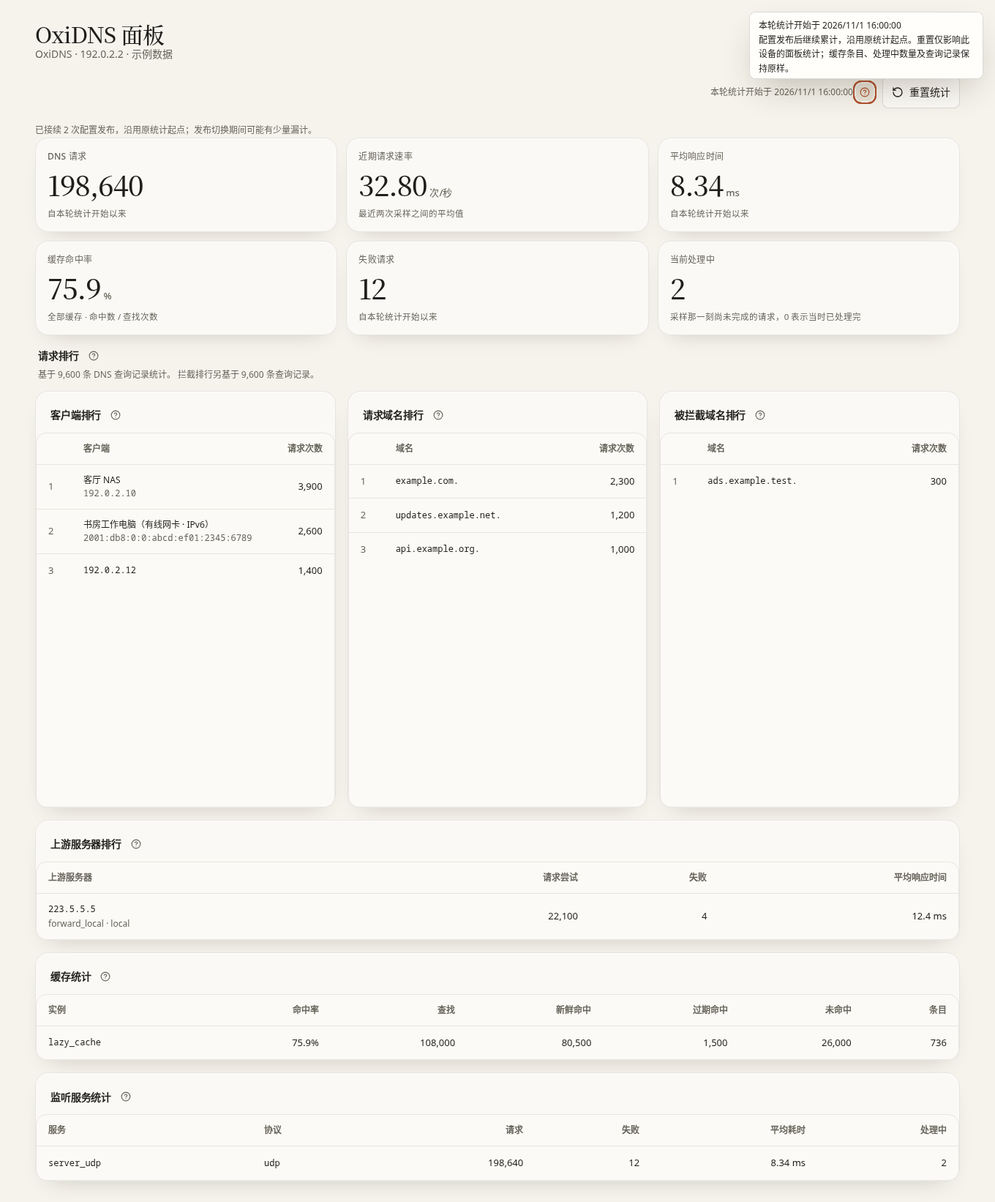
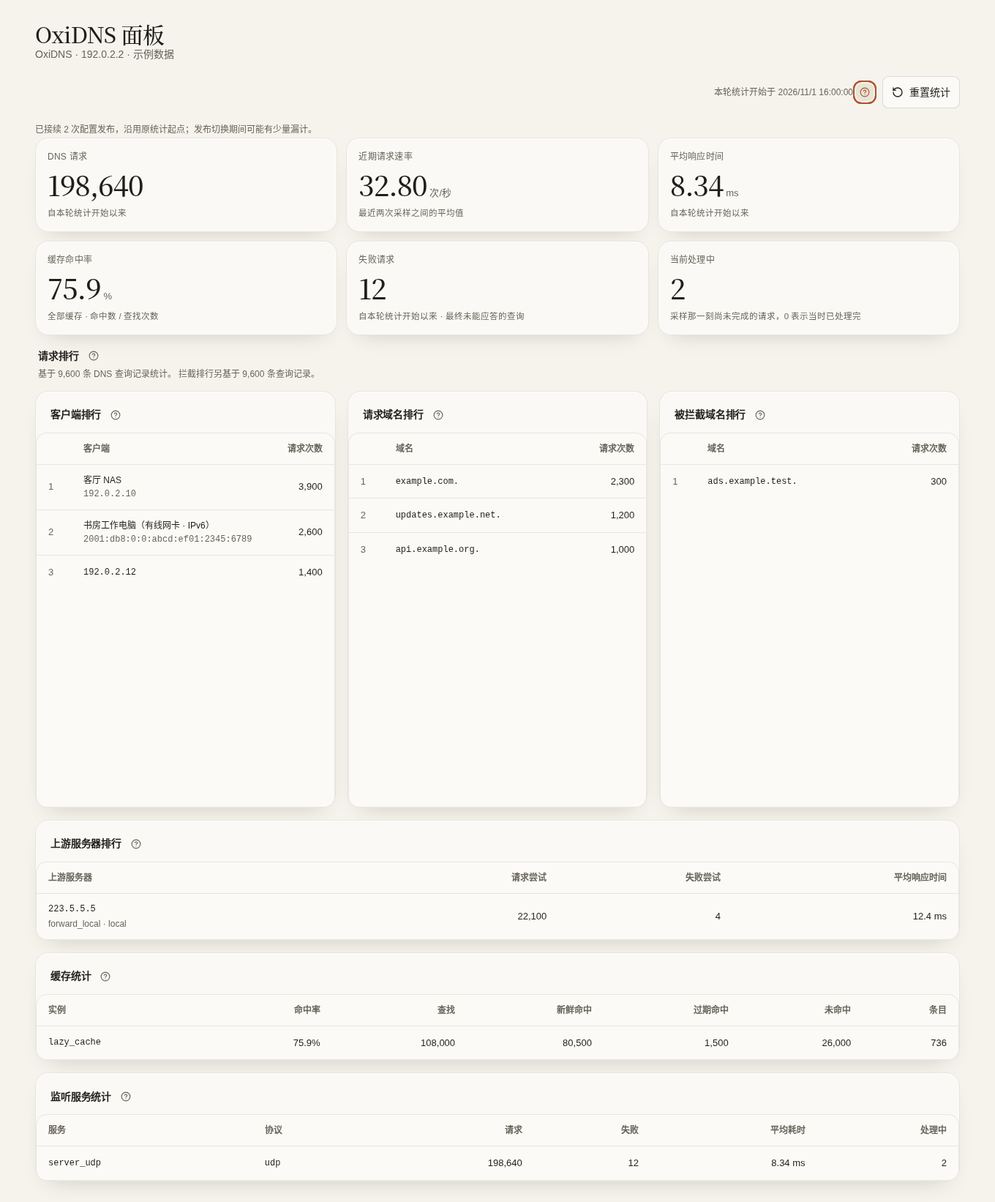
fix(oxidns): 排行只统计最近 24 小时，结果每分钟更新，超时后暂停，不再拖住查询记录
面板每 10 秒请求一次排行，统计范围是本轮起点至今。排行只取范围内最近的
10,000 条查询记录作为样本，但核心要读完整个范围才能找到它们：本轮起点在
几周前时，一次请求超过 Agent 的 5 秒上限，期间及之后查询记录也一起超时
（「暂时无法连接 OxiDNS 管理 API」）。生产上：范围从 11 月 1 日起 5 秒超时，
最近 24 小时 0.35 秒，最近 1 小时 0.06 秒；查询记录单独请求 10–20 毫秒。

- 排行范围为本轮起点与最近 24 小时中较晚者。查询量超过每天 10,000 条时，
  样本与原来相同。
- 排行结果按设备和本轮统计保留 1 分钟，期间轮询直接返回；重置统计、
  换记录器、核心或配置变化时立即重新请求。
- 排行超时（核心或 Agent 无法连接）后 3 分钟内不再请求，继续显示本轮
  上一次的结果；没有结果时说明原因。手动重置统计不受影响。
- 上游表的“失败”改为“失败尝试”，并说明它和“失败请求”的区别；
  说明文字标明排行统计范围。使用说明同步更新。

diff --git a/frontend/src/components/agents/OxiDNSOverview.vue b/frontend/src/components/agents/OxiDNSOverview.vue
@@ -7,7 +7,7 @@
       <OxiDNSMetric label="近期请求速率" :value="qps" unit="次/秒" :precision="2" :hint="qps === null ? '采样中，需两次数据计算' : '最近两次采样之间的平均值'" />
       <OxiDNSMetric label="平均响应时间" :value="overview.metrics.avg_latency_ms" unit="ms" :precision="2" :hint="periodLabel" />
       <OxiDNSMetric label="缓存命中率" :value="cacheRate" unit="%" :precision="1" :hint="selectedCache === '__all__' ? '全部缓存 · 命中数 / 查找次数' : selectedTag + ' · 命中数 / 查找次数'" />
-      <OxiDNSMetric label="失败请求" :value="overview.metrics.failed_total" :hint="periodLabel" />
+      <OxiDNSMetric label="失败请求" :value="overview.metrics.failed_total" :hint="periodLabel + ' · 最终未能应答的查询'" />
       <OxiDNSMetric label="当前处理中" :value="overview.metrics.inflight" hint="采样那一刻尚未完成的请求，0 表示当时已处理完" />
     </div>
 
@@ -41,11 +41,11 @@
       </div>
     </section>
 
-    <SectionCard class="min-w-0" title="上游服务器排行" :help="periodLabel + '，按请求尝试次数排列 · 前 10 项。竞速或重试可能为一次 DNS 查询产生多次上游请求；平均响应时间包含成功和失败的已完成尝试。'" :padded="false">
+    <SectionCard class="min-w-0" title="上游服务器排行" :help="periodLabel + '，按请求尝试次数排列 · 前 10 项。竞速或重试可能为一次 DNS 查询产生多次上游请求；失败尝试是单次上游请求失败，同一查询的其他上游应答时，这次查询不算失败请求，所以各上游的失败尝试可以多于「失败请求」。平均响应时间包含成功和失败的已完成尝试。'" :padded="false">
       <EmptyState v-if="!upstreams.length" title="暂无上游请求统计" description="尚无上游请求，或当前核心未返回具体上游服务器的指标。" />
       <div v-else class="cf-table-wrap max-w-full" tabindex="0" role="region" aria-label="上游服务器排行">
         <table class="cf-table">
-          <thead><tr><th class="min-w-40">上游服务器</th><th class="text-right">请求尝试</th><th class="text-right">失败</th><th class="text-right">平均响应时间</th></tr></thead>
+          <thead><tr><th class="min-w-40">上游服务器</th><th class="text-right">请求尝试</th><th class="text-right">失败尝试</th><th class="text-right">平均响应时间</th></tr></thead>
           <tbody>
             <tr v-for="upstream in upstreams" :key="upstream.id || upstream.tag + ':' + upstream.upstream">
               <td><span class="block break-all font-mono text-xs">{{ upstream.address || upstream.upstream }}</span><span class="mt-1 block break-all text-xs text-muted-foreground">{{ upstream.tag }}<template v-if="upstream.address && upstream.address !== upstream.upstream"> · {{ upstream.upstream }}</template></span></td>
@@ -132,8 +132,11 @@ const rankingSampleDescription = computed(() => {
   }
   return '客户端排行基于 ' + formatMonitorNumber(clients.sample_size) + ' 条查询记录；域名排行基于 ' + formatMonitorNumber(domains.sample_size) + ' 条查询记录。'
 })
+// The server stops the window a day back; older records would not change a busy resolver's newest sample.
+const rankingsSinceDay = computed(() => !!rankings.value && !!props.overview.statistics
+  && typeof rankings.value.since_ms === 'number' && rankings.value.since_ms > props.overview.statistics.started_at_ms)
 const rankingsDescription = computed(() => rankings.value
-  ? '从本轮起点起，在记录器「' + rankings.value.recorder + '」保留的记录中，分别取最近 ' + formatMonitorNumber(rankings.value.sample_limit) + ' 条统计前 10 项；这是记录样本排行，不是全量累计。样本数是查询记录条数，不是客户端数或去重域名数。域名按问题名计数，一条查询可包含多个问题。' + (monitorNumber(rankings.value.retention_days) ? '核心保留期 ' + formatMonitorNumber(rankings.value.retention_days) + ' 天。' : '')
+  ? (rankingsSinceDay.value ? '统计最近 24 小时（本轮起点更早时不再往前统计，以免拖慢核心）' : '从本轮起点起') + '，在记录器「' + rankings.value.recorder + '」保留的记录中，分别取最近 ' + formatMonitorNumber(rankings.value.sample_limit) + ' 条统计前 10 项；这是记录样本排行，不是全量累计。样本数是查询记录条数，不是客户端数或去重域名数。域名按问题名计数，一条查询可包含多个问题。' + (monitorNumber(rankings.value.retention_days) ? '核心保留期 ' + formatMonitorNumber(rankings.value.retention_days) + ' 天。' : '')
   : '排行依据核心保留的查询记录计算。')
 const rankingsUnavailableReason = computed(() => props.overview.rankings && 'reason' in props.overview.rankings
   ? props.overview.rankings.reason : '当前 Agent 未返回排行数据，请确认已启用查询记录并升级 Agent。')

diff --git a/frontend/tests/oxidns-dashboard.test.ts b/frontend/tests/oxidns-dashboard.test.ts
@@ -117,6 +117,28 @@ describe('OxiDNS dashboard periods and availability', () => {
     expect(helpText(wrapper, '上游服务器排行')).toContain('包含成功和失败的已完成尝试')
   })
 
+  // Upstream failures are single attempts; a query another upstream answered did not fail.
+  it('tells failed attempts apart from failed requests', () => {
+    const wrapper = panel()
+    const headers = wrapper.get('[aria-label="上游服务器排行"]').findAll('th').map(cell => cell.text())
+    expect(headers).toEqual(['上游服务器', '请求尝试', '失败尝试', '平均响应时间'])
+    expect(helpText(wrapper, '上游服务器排行')).toContain('可以多于「失败请求」')
+    expect(wrapper.text()).toContain('最终未能应答的查询')
+  })
+
+  it('says when the rankings window stops a day back instead of at the round start', () => {
+    const data = overview()
+    const start = data.statistics!.started_at_ms
+    expect(helpText(panel(data), '请求排行')).toContain('从本轮起点起')
+    ;(data.rankings as OxiDNSRankings).since_ms = start
+    expect(helpText(panel(data), '请求排行')).toContain('从本轮起点起')
+    ;(data.rankings as OxiDNSRankings).since_ms = start + 21 * 86_400_000
+    const text = helpText(panel(data), '请求排行')
+    expect(text).toContain('统计最近 24 小时')
+    expect(text).not.toContain('从本轮起点起')
+    expect(text).toContain('记录样本排行，不是全量累计')
+  })
+
   it('keeps older Agent metrics visible while disabling reset and explaining unavailable rankings', () => {
     const data = overview()
     data.statistics = null

diff --git a/frontend/src/types/oxidnsMonitor.ts b/frontend/src/types/oxidnsMonitor.ts
@@ -21,6 +21,9 @@ export interface OxiDNSRankings {
   success: true
   recorder: string
   collected_at_ms: number
+  /** Window the newest sample is taken from: the round's start or the last 24 hours, whichever is later. */
+  since_ms?: number
+  until_ms?: number
   source_revision: string
   instance_id: string
   retention_days: MonitorNumber

diff --git a/backend/test_oxidns_dashboard.py b/backend/test_oxidns_dashboard.py
@@ -15,6 +15,14 @@ from backend.test_oxidns_metrics import server, cache
 from backend.test_agent_upgrade_auth import authenticated_app
 
 
+@pytest.fixture(autouse=True)
+def fresh_rankings(monkeypatch):
+    """Every poll asks for rankings again, unless a test turns reuse on."""
+    monkeypatch.setattr(monitor, 'RANKING_REUSE_SECONDS', 0)
+    monkeypatch.setattr(monitor, 'RANKING_BACKOFF_SECONDS', 0)
+    monkeypatch.setattr(monitor, '_rankings_kept', {})
+
+
 class Manager:
     def __init__(self, directory, agent_id='one'):
         self.repository = SimpleNamespace(data_dir=Path(directory))
@@ -184,6 +192,9 @@ def test_unavailable_rankings_leave_existing_metrics_usable(tmp_path, monkeypatc
     previous = monitor.overview(manager, 'one')
     current.update(snapshot(now=2000, count=20))
     transport(monkeypatch, current, monitor.MonitorError('CORE_UNREACHABLE'))
+    # Without an earlier answer of this round (a timeout after one keeps showing
+    # it: test_after_a_timeout_rankings_rest_and_the_overview_still_answers).
+    monitor._rankings_kept.clear()
     result = monitor.overview(manager, 'one')
     assert result['statistics'] == previous['statistics']
     assert result['metrics']['requests_total'] == 10
@@ -521,3 +532,151 @@ def test_too_many_block_rules_reason_is_actionable(tmp_path, monkeypatch):
     ranks['blocked'] = {'available': False, 'reason': '当前配置未包含可确认的标准 AdGuard 拦截路径'}
     result = monitor.overview(manager, 'one')['rankings']['blocked']
     assert result['code'] == 'unsupported_configuration' and '拒绝/黑洞' in result['reason']
+
+
+# --- Rankings: bounded window, reuse between polls, pause after a timeout ----
+
+@pytest.fixture
+def clock(monkeypatch):
+    now = [1000.0]
+    monkeypatch.setattr(monitor, 'time', SimpleNamespace(monotonic=lambda: now[0]))
+    monkeypatch.setattr(monitor, 'RANKING_REUSE_SECONDS', 60)
+    monkeypatch.setattr(monitor, 'RANKING_BACKOFF_SECONDS', 180)
+    return now
+
+
+def ranking_calls(calls):
+    return [params for _, endpoint, params in calls if endpoint == 'rankings']
+
+
+def test_rankings_cover_at_most_the_last_day_of_a_long_round(tmp_path, monkeypatch):
+    """A statistics round can run for weeks; the core reads the whole window
+    to find the newest sample, so the window stops a day back."""
+    day = monitor.RANKING_WINDOW_MS
+    current, ranks, calls = transport(monkeypatch, snapshot(now=1000), ranking(now=1000))
+    manager = Manager(tmp_path)
+    monitor.overview(manager, 'one')
+    assert ranking_calls(calls)[-1] == {'since_ms': '1000', 'until_ms': '1000'}
+    # Hours later the window still starts at the round's start.
+    current['collected_at_ms'] = ranks['collected_at_ms'] = 1000 + day // 2
+    result = monitor.overview(manager, 'one')
+    assert ranking_calls(calls)[-1] == {'since_ms': '1000', 'until_ms': str(1000 + day // 2)}
+    assert result['statistics']['started_at_ms'] == 1000
+    # Weeks later: the last 24 hours, while the totals keep the round's start.
+    later = 1000 + 23 * day
+    current['collected_at_ms'] = ranks['collected_at_ms'] = later
+    result = monitor.overview(manager, 'one')
+    assert ranking_calls(calls)[-1] == {'since_ms': str(later - day), 'until_ms': str(later)}
+    assert (result['rankings']['since_ms'], result['rankings']['until_ms']) == (later - day, later)
+    assert result['statistics']['started_at_ms'] == 1000
+
+
+def test_rankings_are_reused_between_polls_for_a_minute(tmp_path, monkeypatch, clock):
+    current, ranks, calls = transport(monkeypatch)
+    manager = Manager(tmp_path)
+    first = monitor.overview(manager, 'one')
+    assert len(ranking_calls(calls)) == 1 and first['rankings']['success'] is True
+    for step in range(5):  # the panel polls every 10 s
+        clock[0] += 10
+        current['collected_at_ms'] += 10_000
+        polled = monitor.overview(manager, 'one')
+        assert polled['rankings'] == first['rankings']
+        # The counters are read fresh every time.
+        assert polled['collected_at'] != first['collected_at']
+    assert len(ranking_calls(calls)) == 1
+    clock[0] += 10  # 60 s after the first
+    current['collected_at_ms'] += 10_000
+    ranks['collected_at_ms'] = current['collected_at_ms']
+    monitor.overview(manager, 'one')
+    assert len(ranking_calls(calls)) == 2
+
+
+def test_a_reset_or_another_recorder_asks_again_at_once(tmp_path, monkeypatch, clock):
+    current, ranks, calls = transport(monkeypatch)
+    manager = Manager(tmp_path)
+    monitor.overview(manager, 'one')
+    current['capabilities'] = {'query_recorders': ['records', 'other']}
+    monitor.overview(manager, 'one')
+    assert len(ranking_calls(calls)) == 2  # the recorder list changed
+    monitor.overview(manager, 'one')
+    assert len(ranking_calls(calls)) == 2
+    clock[0] += 1
+    monitor.reset_dashboard(manager, 'one', {})
+    assert len(ranking_calls(calls)) == 3  # a manual reset never reuses
+    monitor.overview(manager, 'one')
+    assert len(ranking_calls(calls)) == 3  # and its answer serves the new round
+    ranks['recorder'] = 'other'
+    monitor.overview(manager, 'one', MultiDict({'recorder': 'other'}))
+    assert ranking_calls(calls)[-1]['recorder'] == 'other' and len(ranking_calls(calls)) == 4
+
+
+@pytest.mark.parametrize('code', ['CORE_UNREACHABLE', 'AGENT_UNREACHABLE'])
+def test_after_a_timeout_rankings_rest_and_the_overview_still_answers(tmp_path, monkeypatch, clock, code):
+    """A timed-out ranking keeps the core busy; asking again every 10 s kept the
+    query records page failing as well."""
+    current, ranks, calls = transport(monkeypatch)
+    manager = Manager(tmp_path)
+    monitor.overview(manager, 'one')
+    clock[0] += 61
+    good = copy.deepcopy(ranks)
+    monkeypatch.setattr(monitor, '_request', _failing_rankings(calls, current, monitor.MonitorError(code)))
+    failed = monitor.overview(manager, 'one')
+    assert len(ranking_calls(calls)) == 2
+    # The last answer of this round stays on screen; the counters keep updating.
+    assert failed['rankings']['success'] is True and failed['metrics']['requests_total'] is not None
+    for _ in range(17):
+        clock[0] += 10
+        assert monitor.overview(manager, 'one')['rankings']['success'] is True
+    assert len(ranking_calls(calls)) == 2
+    clock[0] += 10  # 180 s after the timeout
+    monkeypatch.setattr(monitor, '_request', _failing_rankings(calls, current, good))
+    monitor.overview(manager, 'one')
+    assert len(ranking_calls(calls)) == 3
+
+
+def test_a_timeout_without_an_earlier_answer_says_why_rankings_wait(tmp_path, monkeypatch, clock):
+    current, _, calls = transport(monkeypatch)
+    monkeypatch.setattr(monitor, '_request', _failing_rankings(calls, current, monitor.MonitorError('CORE_UNREACHABLE')))
+    manager = Manager(tmp_path)
+    first = monitor.overview(manager, 'one')
+    assert first['rankings']['available'] is False and first['rankings']['code'] == 'core_unreachable'
+    clock[0] += 10
+    paused = monitor.overview(manager, 'one')
+    assert paused['rankings']['code'] == 'rankings_paused' and '查询记录' in paused['rankings']['reason']
+    assert len(ranking_calls(calls)) == 1
+    # A manual reset is asked for explicitly and does not wait.
+    with pytest.raises(monitor.MonitorError):
+        monitor.reset_dashboard(manager, 'one', {})
+    assert len(ranking_calls(calls)) == 2
+
+
+def test_other_ranking_errors_do_not_pause(tmp_path, monkeypatch, clock):
+    current, _, calls = transport(monkeypatch)
+    monkeypatch.setattr(monitor, '_request', _failing_rankings(calls, current, monitor.MonitorError('INVALID_RESPONSE')))
+    manager = Manager(tmp_path)
+    for _ in range(3):
+        assert monitor.overview(manager, 'one')['rankings']['code'] == 'invalid_response'
+        clock[0] += 10
+    assert len(ranking_calls(calls)) == 3
+
+
+def test_kept_rankings_belong_to_one_device(tmp_path, monkeypatch, clock):
+    current, ranks, calls = transport(monkeypatch)
+    manager = Manager(tmp_path)
+    manager.agents['two'] = {**manager.agents['one'], 'id': 'two', 'host': '192.0.2.99'}
+    monitor.overview(manager, 'one')
+    monitor.overview(manager, 'two')
+    monitor.overview(manager, 'one')
+    assert [agent for agent, endpoint, _ in calls if endpoint == 'rankings'] == ['one', 'two']
+
+
+def _failing_rankings(calls, current, answer):
+    def request(agent, endpoint, params=None, **kwargs):
+        calls.append((agent['id'], endpoint, copy.deepcopy(params)))
+        if endpoint == 'overview':
+            return copy.deepcopy(current)
+        if isinstance(answer, Exception):
+            raise answer
+        return copy.deepcopy(answer)
+    return request
+

diff --git a/backend/agents/oxidns_monitor.py b/backend/agents/oxidns_monitor.py
@@ -5,6 +5,8 @@ import ipaddress
 import json
 import math
 import re
+import threading
+import time
 from urllib.parse import urlsplit, urlunsplit
 
 import requests
@@ -18,6 +20,15 @@ MIN_AGENT_VERSION = '1.7.0-go'
 MIN_CLIENTS_AGENT_VERSION = '1.7.1-go'
 MIN_DASHBOARD_AGENT_VERSION = '1.8.14-go'
 CLIENT_SAMPLE_LIMIT = 10000
+# Rankings count the newest CLIENT_SAMPLE_LIMIT records of their window, yet the
+# core reads the whole window to find them. Since a statistics start weeks back,
+# one request outlasts the Agent's 5 s limit and holds up the core's query
+# records meanwhile; a busy resolver fills the sample within minutes anyway.
+RANKING_WINDOW_MS = 24 * 3600 * 1000
+# The overview is polled every 10 s; rankings are reused for this long, and
+# after a timeout not asked for again for the second interval.
+RANKING_REUSE_SECONDS = 60
+RANKING_BACKOFF_SECONDS = 180
 MAX_RESPONSE_BYTES = 5 * 1024 * 1024
 MAX_INTEGER = 2 ** 53 - 1
 
@@ -280,6 +291,7 @@ def _rankings_unavailable(code, **fields):
         'too_many_block_rules': (f'拦截规则分组超过 {BLOCK_RANKING_MATCHER_LIMIT} 个，暂不统计被拦截域名排行；'
                                  '请合并拒绝/黑洞规则后再查看。'),
         'snapshot_changed': '采集期间核心或配置发生变化，请稍后刷新。',
+        'rankings_paused': f'上次统计排行超时，已暂停 {RANKING_BACKOFF_SECONDS // 60} 分钟后再试，以免影响查询记录。',
     }
     reason = reasons.get(code, MESSAGES.get(code.upper(), '暂时无法获取排行，请稍后刷新。'))
     return {'available': False, 'success': False, 'code': code, 'reason': reason,
@@ -321,8 +333,47 @@ def _ranking_section(value, kind):
     return {'sample_size': sample, 'rows': result, 'at_limit': at_limit}
 
 
+_rankings_kept = {}  # (data dir, Agent id) -> {'key', 'result', 'at', 'failed_at'}
+_rankings_lock = threading.Lock()
+
+
+def _kept_rankings(manager, agent, params, snapshot, state, recorders, *, manual):
+    """_dashboard_rankings, reused for a minute and paused after a timeout.
+
+    Kept per Agent for one statistics round on one core and configuration. A
+    manual reset always asks again.
+    """
+    identity = (str(manager.repository.data_dir), agent['id'])
+    key = (params.get('recorder', ''), tuple(recorders), state['generation'], state['instance_id'],
+           state['source_revision'], state['runtime_revision'])
+    now = time.monotonic()
+    with _rankings_lock:
+        kept = _rankings_kept.get(identity)
+        kept = kept if kept is not None and kept['key'] == key else None
+    if kept is not None and not manual:
+        if kept['result'] is not None and kept['failed_at'] is None and 0 <= now - kept['at'] < RANKING_REUSE_SECONDS:
+            return kept['result']
+        if kept['failed_at'] is not None and 0 <= now - kept['failed_at'] < RANKING_BACKOFF_SECONDS:
+            return kept['result'] or _rankings_unavailable('rankings_paused')
+    try:
+        result = _dashboard_rankings(agent, params, snapshot, state, recorders)
+    except MonitorError as error:
+        if error.code in ('CORE_UNREACHABLE', 'AGENT_UNREACHABLE'):
+            previous = kept['result'] if kept else None
+            with _rankings_lock:
+                _rankings_kept[identity] = {'key': key, 'result': previous,
+                                            'at': kept['at'] if kept else now, 'failed_at': now}
+            if previous is not None and not manual:
+                return previous  # this round's last answer, rather than an error
+        raise
+    with _rankings_lock:
+        _rankings_kept[identity] = {'key': key, 'result': result, 'at': now, 'failed_at': None}
+    return result
+
+
 def _dashboard_rankings(agent, params, snapshot, state, recorders):
-    bounds = {'since_ms': state['started_at_ms'], 'until_ms': snapshot['collected_at_ms']}
+    bounds = {'since_ms': max(state['started_at_ms'], snapshot['collected_at_ms'] - RANKING_WINDOW_MS),
+              'until_ms': snapshot['collected_at_ms']}
     if params.get('recorder') and params['recorder'] not in recorders:
         raise MonitorError('INVALID_QUERY', 400)
     if not recorders:
@@ -409,7 +460,7 @@ def _dashboard_overview(manager, agent_id, params, *, manual=False):
             # GET must return the new list so viewers can recover automatically;
             # a manual reset remains strict about its explicitly selected target.
             effective_params = params if manual or params.get('recorder') in recorders else {}
-            rankings = _dashboard_rankings(agent, effective_params, snapshot, state, recorders)
+            rankings = _kept_rankings(manager, agent, effective_params, snapshot, state, recorders, manual=manual)
         except MonitorError as error:
             if manual or error.code == 'INVALID_QUERY':
                 raise

diff --git a/doc/manual/oxidns-panel.md b/doc/manual/oxidns-panel.md
@@ -50,7 +50,7 @@
 | 近期请求速率 | 最近两次有效采样间，每秒平均收到多少请求 | 刚打开或重置后要等两次采样；“采样中”或“—”不是零。它不是由查询记录条数估算的。 |
 | 平均响应时间 | 当前统计范围内请求的平均耗时 | 平均值不能保证每一个域名都快。继续查单条慢查询更有帮助。 |
 | 缓存命中率 | 命中次数除以缓存查找次数 | 同时包括新鲜缓存和过期缓存；不等于所有 DNS 请求里有多少百分比成功。选择缓存实例会改变这里的统计对象。 |
-| 失败请求 | 核心报告的失败计数 | 与“拦截域名”不是同一概念，不能仅靠它判断广告拦截。 |
+| 失败请求 | 最终未能应答的客户端查询 | 与上游表里的“失败尝试”不同：一次查询可能同时或先后问多个上游，其中一个失败、另一个应答时，不算失败请求。也与“拦截域名”不是同一概念，不能仅靠它判断广告拦截。 |
 | 当前处理中 | 采样那一刻尚未完成的请求 | 显示 0 往往是已经处理完，不表示无人使用 DNS。 |
 
 数字为“—”时，表示没有可确认的数据。页面若提示基线缺失或插件重新计数，当前这一轮可能不完整，不能把缺失项按 0 相加。
@@ -60,7 +60,9 @@
 这里有 **客户端排行、请求域名排行、被拦截域名排行**，各显示前 10 项。
 
 - 客户端排行显示设备备注，下方保留完整 IP；未设置备注时只显示 IP。备注与查询记录共用，来自当前 Agent 绑定的配置空间，可在[客户端设备](client-devices.md)中修改，改名后点面板「刷新」。备注只影响显示，不会合并同名设备或改变请求计数。
-- 排行根据记录器中仍保留的查询记录计算，有取样上限。说明文字会显示样本条数和上限提示；它不是无限期、全量累计排行榜。
+- 排行根据记录器中仍保留的查询记录计算：在统计范围内取最近的若干条（上限 10,000 条）作为样本。说明文字会显示样本条数和上限提示；它不是无限期、全量累计排行榜。
+- 统计范围是本轮统计以来，但最多往前 24 小时。统计起点更早时，往前多查也不会改变“最近 10,000 条”这个样本，只会拖慢核心、连带让查询记录超时。
+- 排行每分钟更新一次。核心统计排行超时后，会继续显示本轮上一次的结果，并暂停 3 分钟再试，期间查询记录不受影响。
 - 多个记录器时，“排行记录器”默认选当前可用的第一个，可切换到需要的记录器。这个选择也影响“查询记录”标签中的记录器。
 - 样本条数是查询记录数，不是客户端数量。域名按问题名计数，一条 DNS 查询包含多个问题时可以贡献多个域名计数。
 - “被拦截域名排行”只统计能明确识别为命中拦截规则的查询。普通 `NXDOMAIN`、IPv4 优先产生的空应答都不能直接当成拦截。
@@ -72,7 +74,7 @@
 
 | 区域 | 用法 | 说明 |
 | --- | --- | --- |
-| 上游服务器排行 | 看请求尝试、失败、平均响应时间，按请求尝试数列前 10 项 | 一次客户端查询可能竞速请求多个上游，也可能重试，所以尝试数可以大于 DNS 请求数。平均耗时包含成功和失败的已完成尝试。 |
+| 上游服务器排行 | 看请求尝试、失败尝试、平均响应时间，按请求尝试数列前 10 项 | 一次客户端查询可能竞速请求多个上游，也可能重试，所以尝试数可以大于 DNS 请求数，各上游的失败尝试加起来也可以多于“失败请求”。平均耗时包含成功和失败的已完成尝试。 |
 | 缓存统计 | 默认“全部缓存”；多个实例时可选择一个缓存 | 显示查找、新鲜命中、过期命中、未命中和当前条目数。筛选只是看某个实例，**不会限制“清理缓存”按钮的范围**。 |
 | 监听服务统计 | 按服务与协议检查请求、失败、平均耗时、处理中 | 用于判断请求进入哪个监听服务。没有统计不等于能证明端口没有监听，还要检查核心和配置。 |
 
